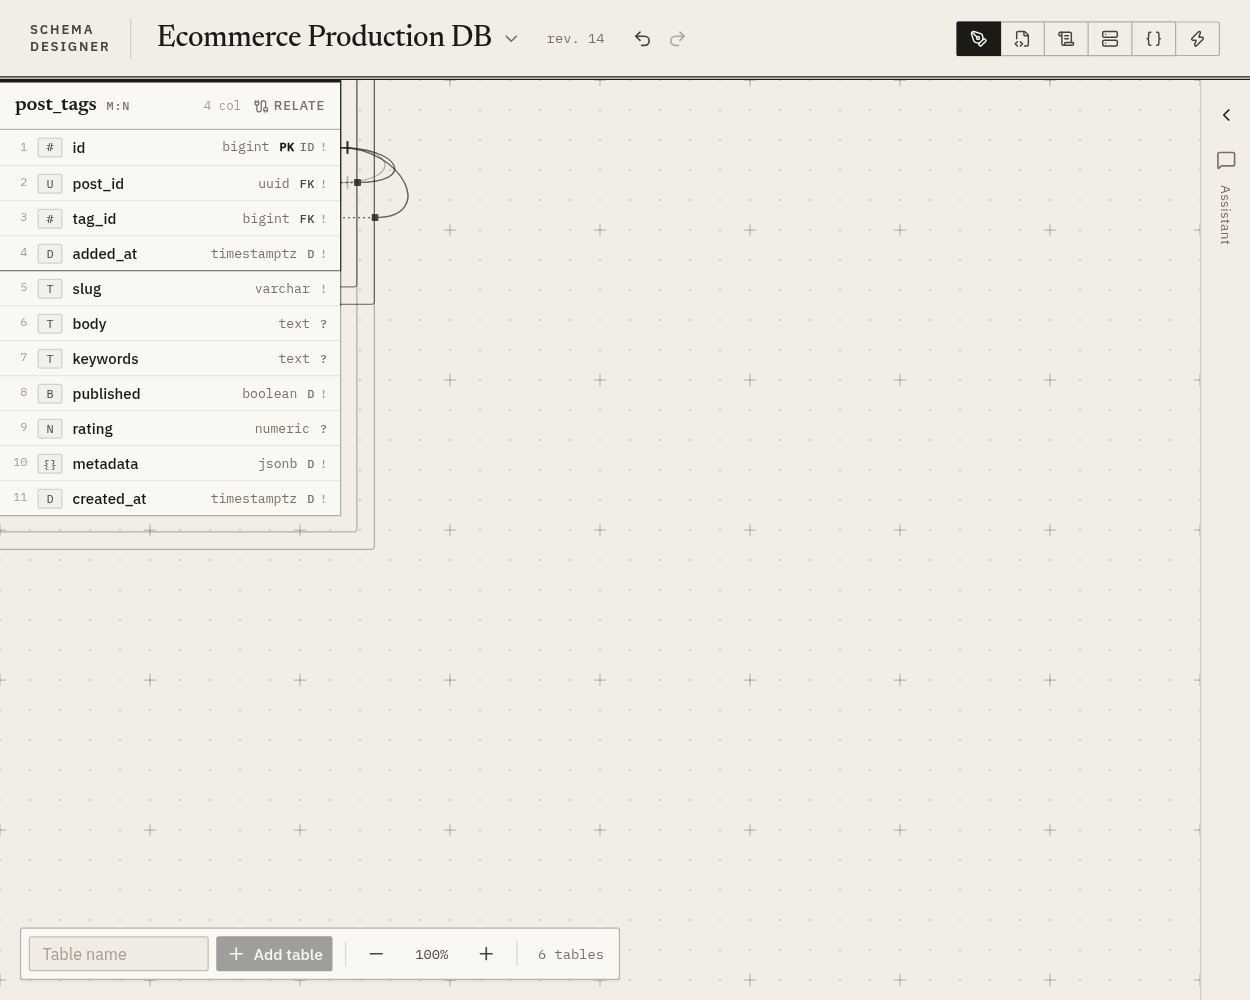
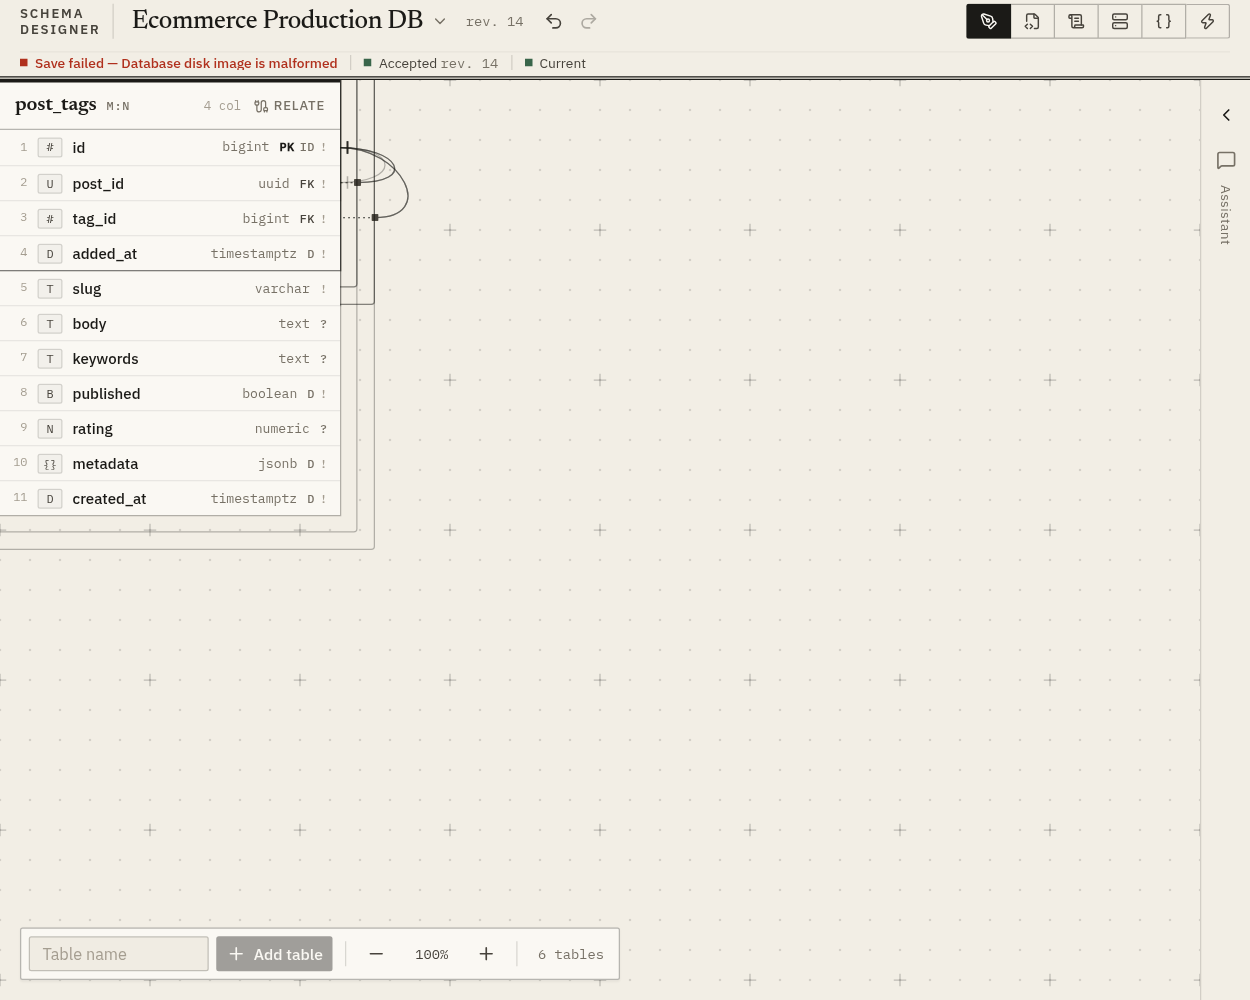
Keep status group visible across all widths with simulated error proof

Changed region(s): [[0.0, 0.0, 0.4056, 0.093], [0.7488, 0.0, 0.9672, 0.062]]

diff --git a/src/mainview/App.tsx b/src/mainview/App.tsx
@@ -899,31 +899,31 @@ export function Masthead({
 	const project = state.project;
 	return (
 		<header
-			className="double-rule flex shrink-0 items-center justify-between gap-3 sm:gap-4 lg:gap-6 bg-paper px-3 sm:px-6"
-			style={{ height: "var(--masthead-height)" }}
+			className="double-rule flex shrink-0 flex-wrap items-center justify-between gap-x-2 sm:gap-x-3 lg:gap-x-4 gap-y-1 bg-paper px-3 sm:px-4 lg:px-6 py-1 md:py-0"
+			style={{ minHeight: "var(--masthead-height)" }}
 		>
-			<div className="flex min-w-0 items-center gap-2 sm:gap-3 md:gap-4">
+			<div className="flex min-w-0 items-center gap-1.5 sm:gap-2 md:gap-2.5 order-1">
 				<p className="kicker hidden shrink-0 leading-tight text-ink-2! md:block">
 					Schema
 					<br />
 					Designer
 				</p>
-				<span className="hidden h-8 w-px bg-rule md:block" aria-hidden="true" />
+				<span className="hidden h-7 w-px bg-rule md:block" aria-hidden="true" />
 				<DropdownMenu>
 					<h1 className="min-w-0">
 						<DropdownMenuTrigger
 							disabled={busy}
-							className="group flex max-w-full min-w-0 items-baseline gap-1.5 sm:gap-2 rounded-sm px-1 outline-none focus-visible:ring-2 focus-visible:ring-pencil/30"
+							className="group flex max-w-full min-w-0 items-baseline gap-1.5 rounded-sm px-1 outline-none focus-visible:ring-2 focus-visible:ring-pencil/30"
 						>
 							<span
 								className={cn(
-									"truncate font-display text-[20px] sm:text-[22px] md:text-[24px] 2xl:text-[26px] leading-none font-medium tracking-[-0.015em]",
+									"truncate font-display text-[18px] sm:text-[20px] md:text-[21px] xl:text-[24px] leading-none font-medium tracking-[-0.015em]",
 									project ? "text-ink" : "text-ink-3 italic",
 								)}
 							>
 								{project?.name ?? "No project open"}
 							</span>
-							<ChevronDown className="size-4 shrink-0 self-center text-ink-3 group-hover:text-ink" />
+							<ChevronDown className="size-3.5 shrink-0 self-center text-ink-3 group-hover:text-ink" />
 						</DropdownMenuTrigger>
 					</h1>
 					<DropdownMenuContent align="start" className="w-64">
@@ -991,23 +991,33 @@ export function Masthead({
 				)}
 			</div>
 
-			<div className="flex shrink-0 items-center gap-3 sm:gap-4 lg:gap-5">
-				{project && (
-					<dl className="hidden items-center gap-5 2xl:flex">
-						<StatusLine label="Saved">
-							<SaveStatus save={state.save} />
-						</StatusLine>
-						<StatusLine label="Sandbox">
-							<SandboxStatus sandbox={state.sandbox} draftRevision={state.revision} />
-						</StatusLine>
-						<StatusLine label="SQL">
-							<SqlStatus
-								sql={state.sql}
-								validationStatus={getSqlPreviewValidationStatus(state)}
-							/>
-						</StatusLine>
-					</dl>
-				)}
+			{project && (
+				<dl
+					className="order-3 2xl:order-2 w-full 2xl:w-auto flex items-center gap-2 sm:gap-2.5 lg:gap-3 2xl:gap-5 py-0.5 2xl:py-0 border-t border-rule/30 2xl:border-0"
+					data-testid="status-line"
+				>
+					<StatusLine label="Saved">
+						<SaveStatus save={state.save} />
+					</StatusLine>
+					<span className="h-3 w-px bg-rule 2xl:hidden" aria-hidden="true" />
+					<StatusLine label="Sandbox">
+						<SandboxStatus sandbox={state.sandbox} draftRevision={state.revision} />
+					</StatusLine>
+					<span className="h-3 w-px bg-rule 2xl:hidden" aria-hidden="true" />
+					<StatusLine label="SQL">
+						<SqlStatus
+							sql={state.sql}
+							validationStatus={getSqlPreviewValidationStatus(state)}
+						/>
+					</StatusLine>
+					<span className="h-3 w-px bg-rule md:hidden" aria-hidden="true" />
+					<span className="figures font-mono text-[11px] text-ink-3 md:hidden">
+						rev. {state.revision}
+					</span>
+				</dl>
+			)}
+
+			<div className="flex shrink-0 items-center order-2">
 				<ToggleGroup
 					type="single"
 					variant="outline"
@@ -1098,9 +1108,9 @@ export function Masthead({
 
 function StatusLine({ label, children }: { label: string; children: React.ReactNode }) {
 	return (
-		<div className="flex flex-col gap-0.5">
-			<dt className="kicker text-[9.5px]! text-ink-4!">{label}</dt>
-			<dd className="flex items-center gap-1.5 text-[12px] leading-none">{children}</dd>
+		<div className="flex flex-row 2xl:flex-col items-center 2xl:items-start gap-1 2xl:gap-0.5">
+			<dt className="kicker text-[9.5px]! text-ink-4! hidden 2xl:block">{label}</dt>
+			<dd className="flex items-center gap-1.5 text-[11px] 2xl:text-[12px] leading-none">{children}</dd>
 		</div>
 	);
 }
@@ -1126,15 +1136,25 @@ function SaveStatus({ save }: { save: SaveState }) {
 		<span className="flex items-center gap-1.5" data-testid="save-status">
 			<Mark tone={save.status === "failed" ? "bad" : save.status === "saved" ? "ok" : "muted"} />
 			{save.status === "saved" && (
-				<span className="figures font-mono text-[11px] text-ink-2">
-					{new Date(save.savedAt).toLocaleTimeString()}
+				<span
+					className="figures font-mono text-[11px] text-ink-2"
+					title={`Saved at ${new Date(save.savedAt).toLocaleTimeString()}`}
+				>
+					Saved
+					<span className="hidden 2xl:inline text-ink-3 ml-1">
+						{new Date(save.savedAt).toLocaleTimeString()}
+					</span>
 				</span>
 			)}
-			{save.status === "saving" && <span className="text-ink-3 italic">Saving…</span>}
-			{save.status === "idle" && <span className="text-ink-3">Not saved</span>}
+			{save.status === "saving" && <span className="text-ink-3 italic text-[11px]">Saving…</span>}
+			{save.status === "idle" && <span className="text-ink-3 text-[11px]">Not saved</span>}
 			{save.status === "failed" && (
-				<span className="max-w-56 truncate text-proof-red" data-testid="save-error" title={save.error}>
-					Failed — {save.error}
+				<span
+					className="inline-block max-w-48 sm:max-w-56 md:max-w-64 truncate text-proof-red text-[11px] font-medium align-bottom"
+					data-testid="save-error"
+					title={save.error}
+				>
+					Save failed{save.error ? ` — ${save.error}` : ""}
 				</span>
 			)}
 		</span>
@@ -1155,39 +1175,45 @@ function SandboxStatus({
 	if (sandbox.status === "applied") {
 		const current = sandbox.revision === draftRevision;
 		return (
-			<>
+			<span
+				className="flex items-center gap-1.5"
+				title={current ? `Sandbox accepted at revision ${sandbox.revision}` : `Sandbox out of date (revision ${sandbox.revision}, draft is ${draftRevision})`}
+			>
 				<Mark tone={current ? "ok" : "warn"} />
-				<span className={current ? "text-ink-2" : "text-ochre"}>
+				<span className={cn("text-[11px]", current ? "text-ink-2" : "text-ochre")}>
 					{current ? "Accepted" : "Out of date"}{" "}
-					<span className="figures font-mono text-[11px] text-ink-3">rev. {sandbox.revision}</span>
+					<span className="figures font-mono text-ink-3">rev. {sandbox.revision}</span>
 				</span>
-			</>
+			</span>
 		);
 	}
 	if (sandbox.status === "failed") {
 		return (
-			<>
+			<span
+				className="flex items-center gap-1.5"
+				title={sandbox.error}
+			>
 				<Mark tone="bad" />
-				<span className="text-proof-red" title={sandbox.error}>
+				<span className="text-proof-red text-[11px]" title={sandbox.error}>
 					{sandbox.failure === "sql-rejected" ? "Rejected" : "Sandbox error"}{" "}
 					<span className="figures font-mono text-[11px]">rev. {sandbox.revision}</span>
 				</span>
-			</>
+			</span>
 		);
 	}
 	if (sandbox.status === "applying") {
 		return (
-			<>
+			<span className="flex items-center gap-1.5" title="Rebuilding sandbox…">
 				<Mark tone="warn" />
-				<span className="text-ink-3 italic">Rebuilding…</span>
-			</>
+				<span className="text-ink-3 italic text-[11px]">Rebuilding…</span>
+			</span>
 		);
 	}
 	return (
-		<>
+		<span className="flex items-center gap-1.5" title="Sandbox not run">
 			<Mark tone="muted" />
-			<span className="text-ink-3">Not run</span>
-		</>
+			<span className="text-ink-3 text-[11px]">Not run</span>
+		</span>
 	);
 }
 
@@ -1200,21 +1226,25 @@ function SqlStatus({
 }) {
 	const status = sqlStatusLine(sql, validationStatus);
 	const errors = getSqlValidationErrors(sql);
+	const errorText = errors.length > 0 ? errors.join("; ") : undefined;
 	return (
-		<>
+		<span
+			className="flex items-center gap-1.5"
+			title={errorText ?? `SQL preview: ${status.label}`}
+		>
 			<Mark tone={status.tone} />
 			<span
 				className={cn(
+					"text-[11px]",
 					status.tone === "ok" && "text-ink-2",
 					status.tone === "warn" && "text-ochre",
 					status.tone === "bad" && "text-proof-red",
 					status.tone === "muted" && "text-ink-3",
 				)}
-				title={errors.length > 0 ? errors.join("\n") : undefined}
 			>
 				{status.label}
 			</span>
-		</>
+		</span>
 	);
 }
 
